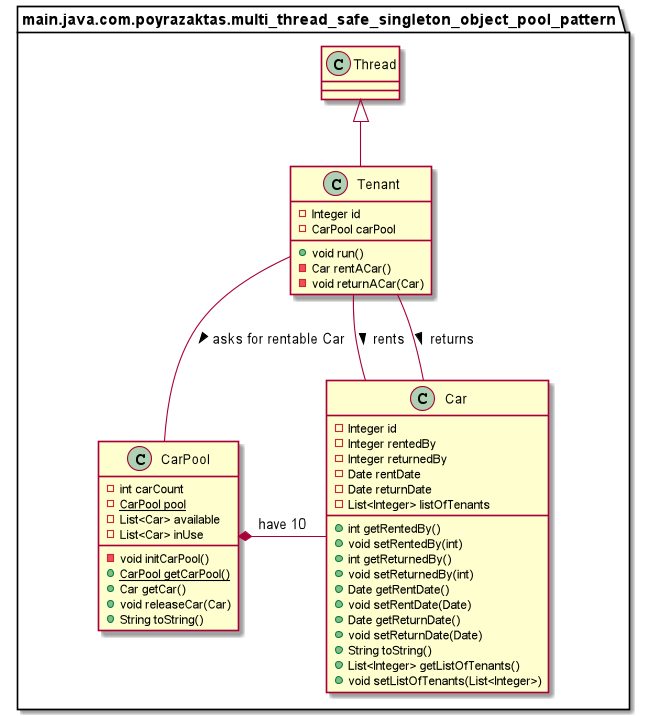
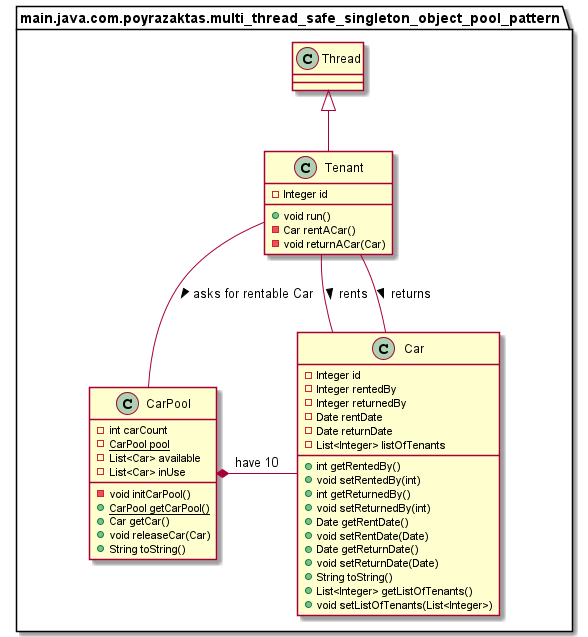
update car pool reference

Changed region(s): [[0.0, 0.0, 0.9796, 1.0]]

diff --git a/src/main/java/com/poyrazaktas/multi_thread_safe_singleton_object_pool_pattern/Tenant.java b/src/main/java/com/poyrazaktas/multi_thread_safe_singleton_object_pool_pattern/Tenant.java
@@ -4,7 +4,6 @@ import java.util.Date;
 
 public class Tenant extends Thread {
     private Integer id;
-    private final CarPool carPool = CarPool.getCarPool();
 
     public Tenant(int id) {
         this.id = id;
@@ -25,7 +24,7 @@ public class Tenant extends Thread {
     }
 
     private Car rentACar() {
-        Car car = carPool.getCar();
+        Car car = CarPool.getCarPool().getCar();
         if(car !=null){
             car.setRentDate(new Date());
             car.setRentedBy(id);
@@ -39,7 +38,7 @@ public class Tenant extends Thread {
         car.setReturnDate(new Date());
         car.setReturnedBy(id);
         System.out.println("Client "+id+" returned: "+car);
-        carPool.releaseCar(car);
+        CarPool.getCarPool().releaseCar(car);
     }
 
 }
